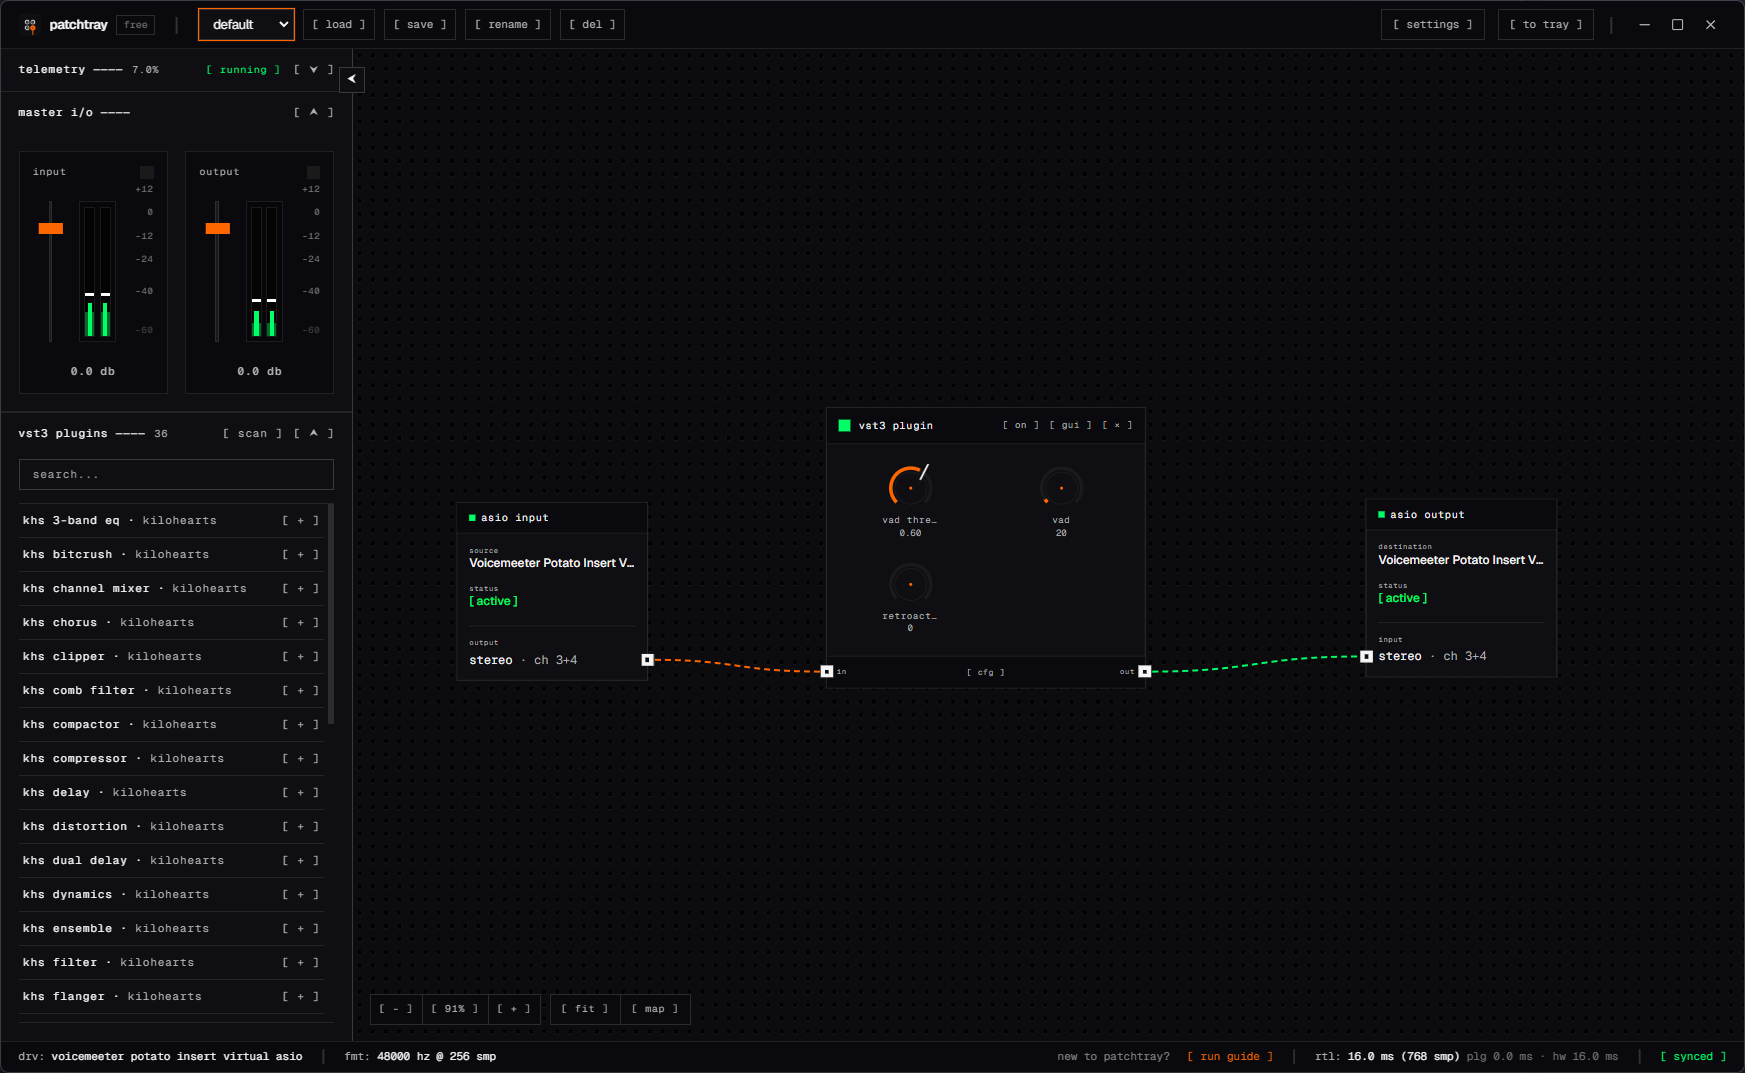
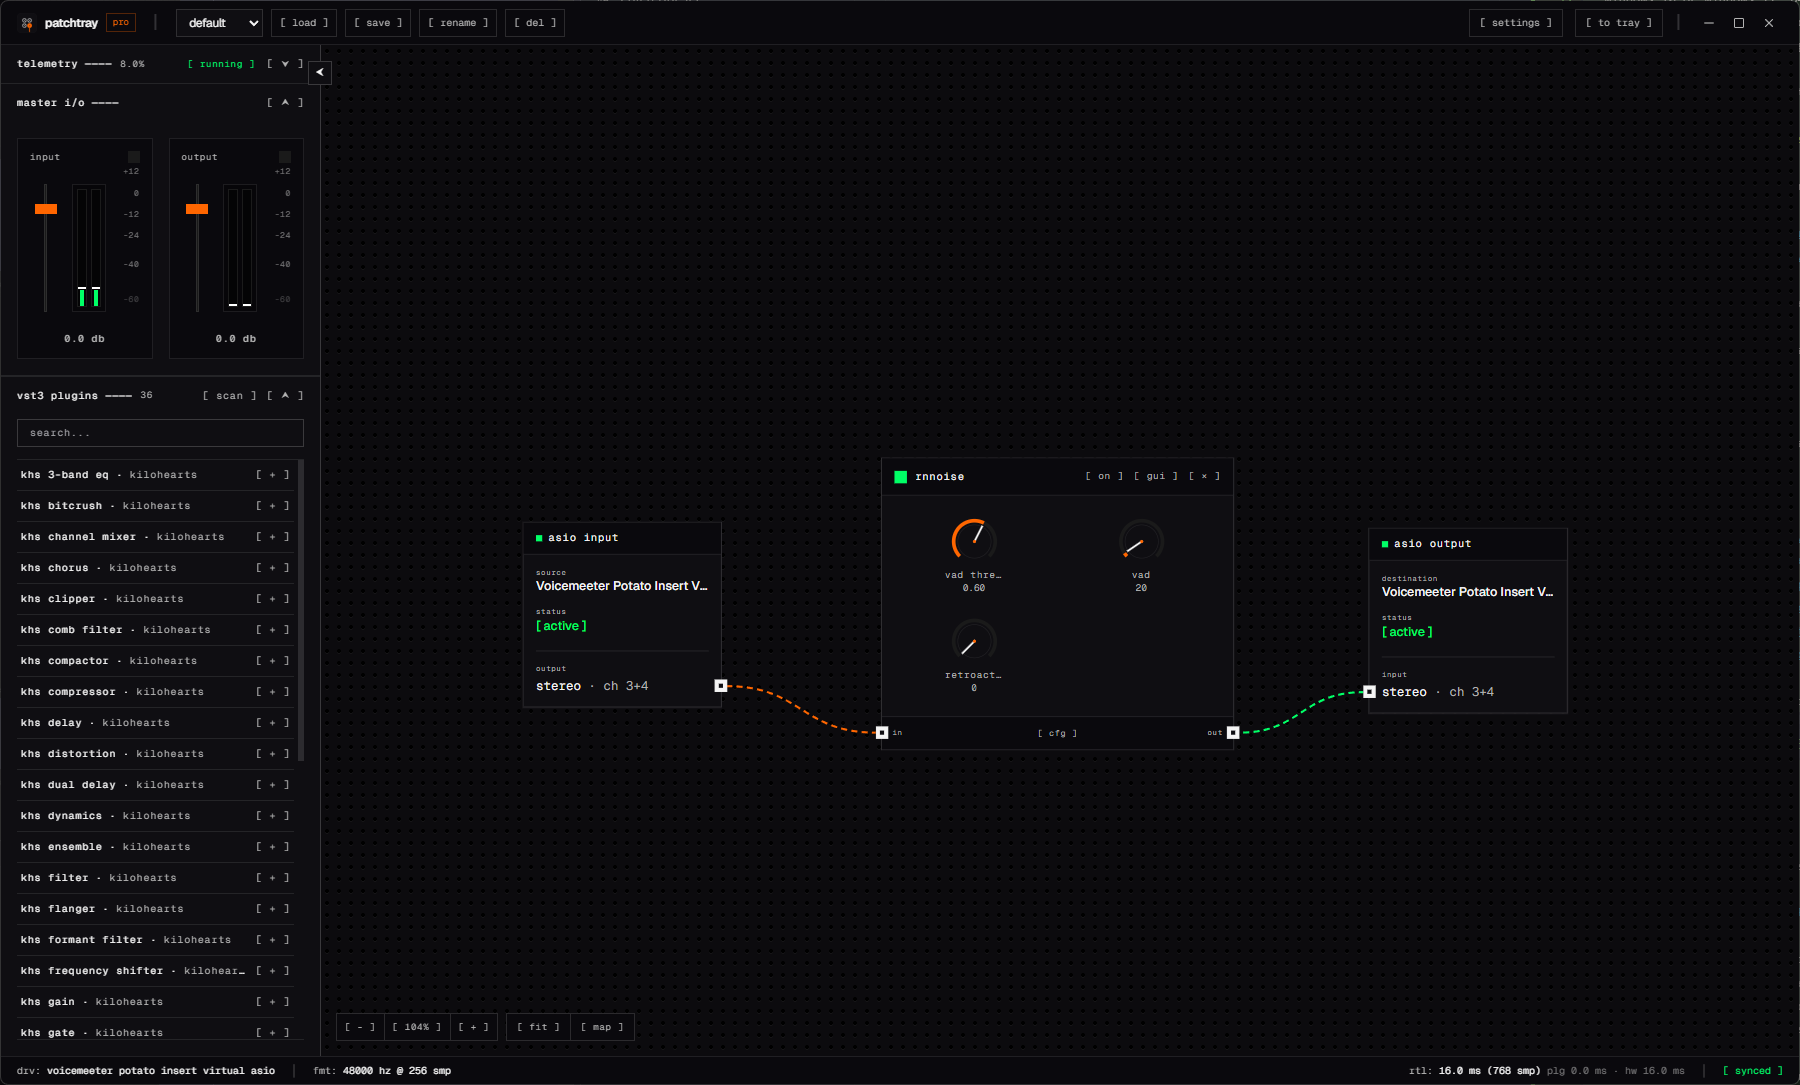
docs: refresh product screenshots

diff --git a/README.md b/README.md
@@ -40,17 +40,25 @@ This is PatchTray's public release and community repository. The application sou
 <details>
 <summary><strong>More product screenshots</strong></summary>
 
+### First launch
+
+<img src="assets/patchtray-first-run.png" alt="PatchTray first-launch configuration screen" width="900">
+
+### Guided ASIO setup
+
+<img src="assets/patchtray-setup.png" alt="PatchTray guided setup selecting an ASIO audio driver" width="900">
+
+### Interactive routing tutorial
+
+<img src="assets/patchtray-tutorial.png" alt="PatchTray routing canvas with the interactive tutorial coach" width="900">
+
 ### ASIO port configuration
 
-<img src="assets/patchtray-ports.png" alt="PatchTray ASIO input port configuration" width="760">
+<img src="assets/patchtray-ports.png" alt="PatchTray ASIO input channel configuration" width="900">
 
-### Application settings
+### License management and recovery
 
-<img src="assets/patchtray-settings.png" alt="PatchTray audio device settings" width="760">
-
-### Live telemetry
-
-<img src="assets/patchtray-telemetry.png" alt="PatchTray master meters and telemetry" width="760">
+<img src="assets/patchtray-license.png" alt="PatchTray Pro license status and license recovery controls" width="900">
 
 </details>
 

diff --git a/assets/README.md b/assets/README.md
@@ -7,10 +7,12 @@ This directory contains the approved public media kit for PatchTray.
 | `patchtray-mark.svg` | Scalable PatchTray mark for light or dark layouts |
 | `patchtray-icon.png` | Square application icon |
 | `patchtray-pro-banner.png` | PatchTray Pro marketing artwork |
-| `patchtray-canvas.png` | Main application and routing canvas |
-| `patchtray-ports.png` | ASIO port configuration dialog |
-| `patchtray-settings.png` | Application settings dialog |
-| `patchtray-telemetry.png` | Main meters and telemetry view |
+| `patchtray-first-run.png` | First-launch configuration screen |
+| `patchtray-setup.png` | Guided ASIO driver setup |
+| `patchtray-tutorial.png` | Interactive routing tutorial |
+| `patchtray-canvas.png` | Active ASIO → VST3 → ASIO routing canvas |
+| `patchtray-ports.png` | ASIO input channel configuration |
+| `patchtray-license.png` | Pro license status and recovery controls |
 
 ## Usage
 
